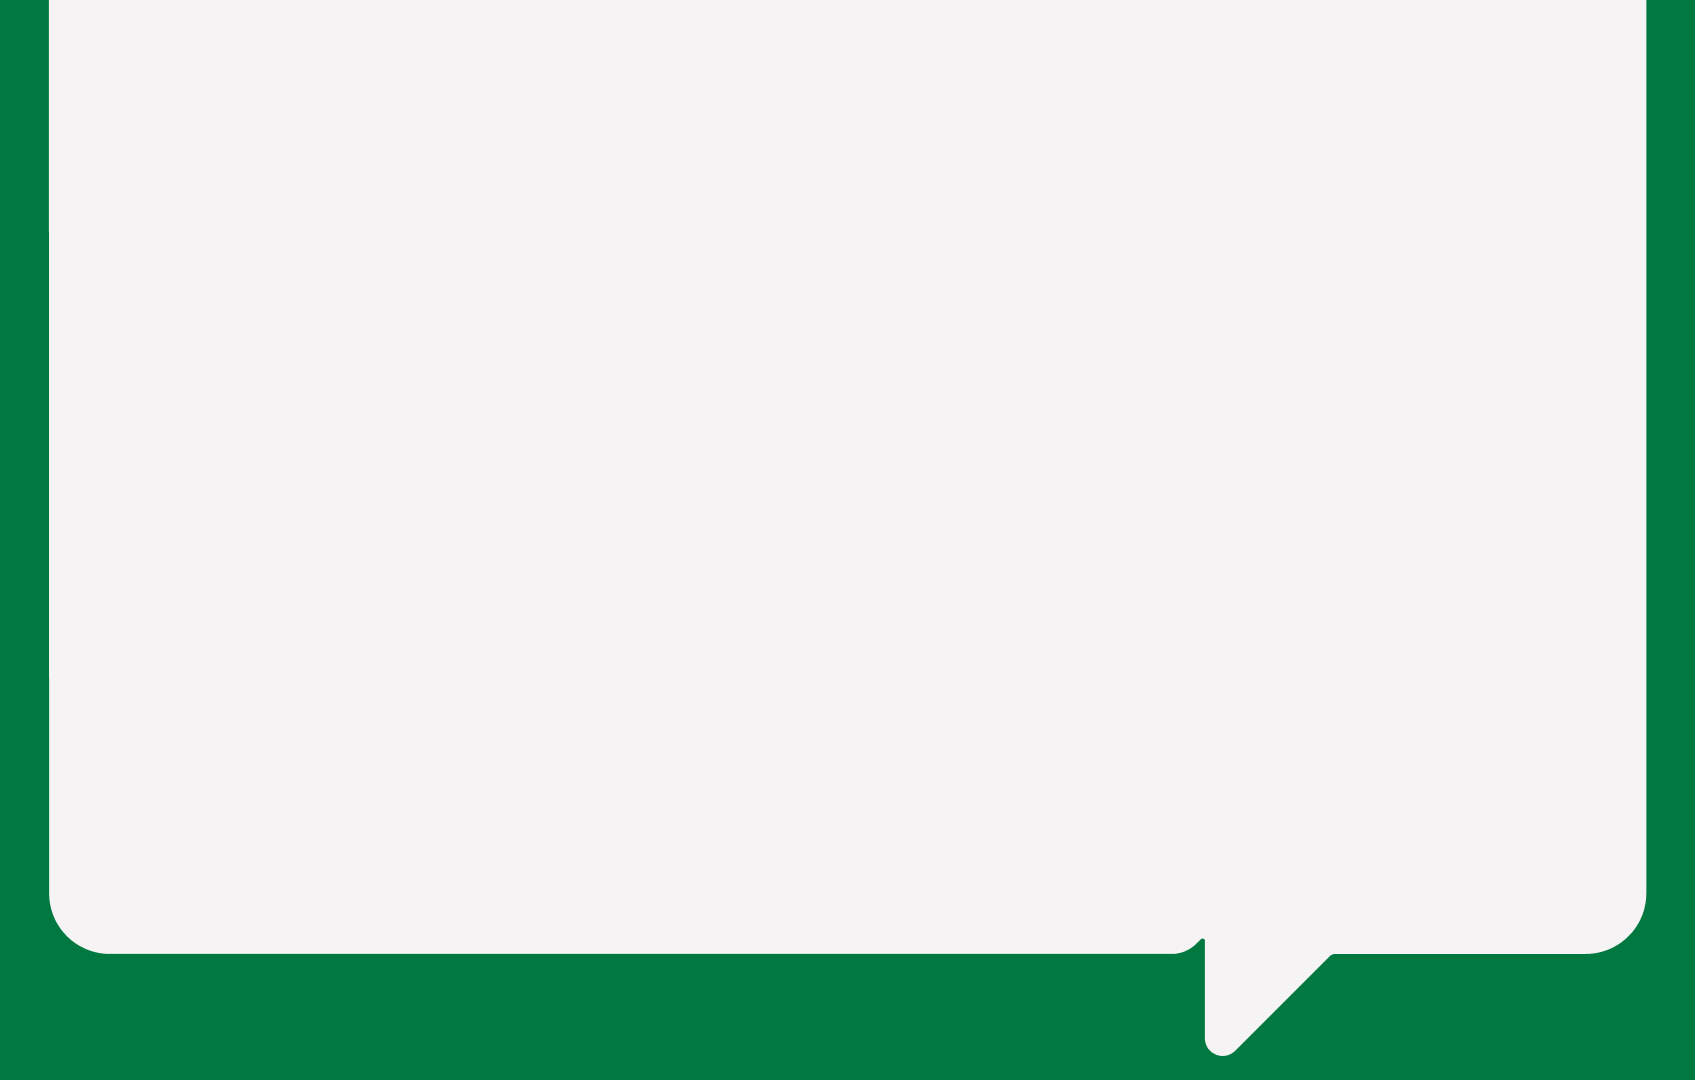
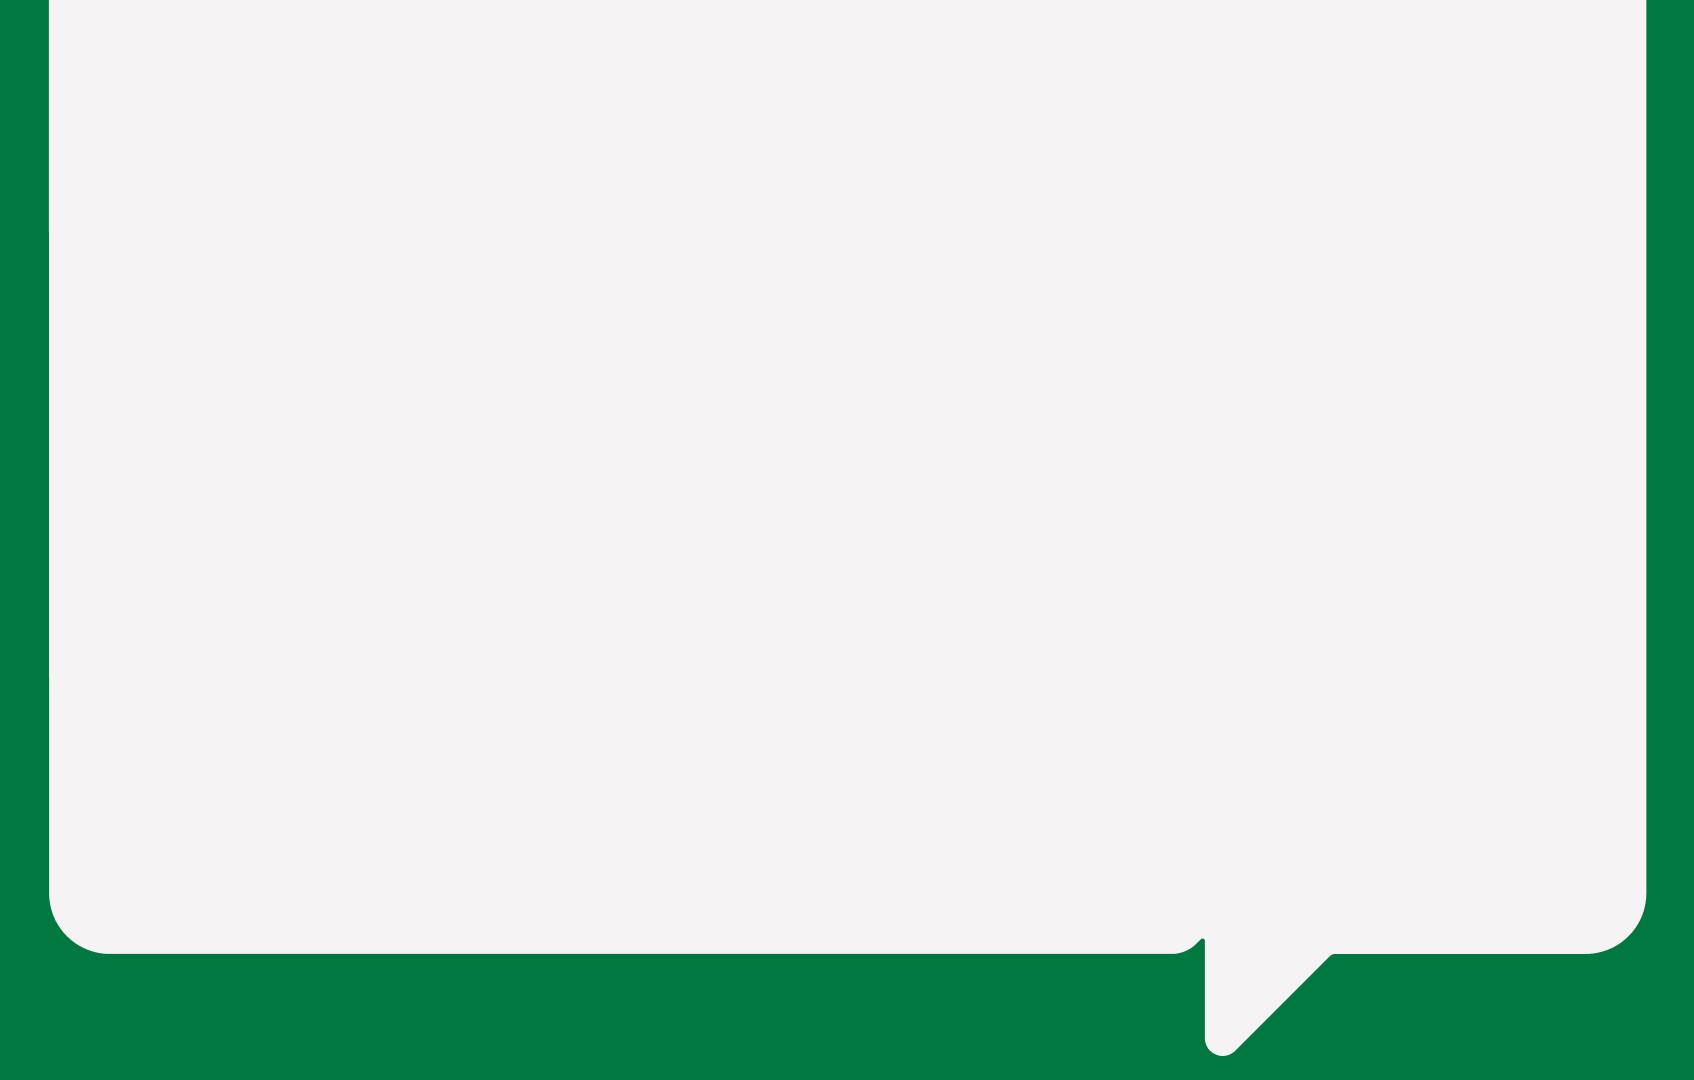
no message

Changed region(s): [[0.9516, 0.0, 1.0, 1.0], [0.706, 0.9472, 0.7367, 0.9778]]

diff --git a/src/pages/settings/SettingUser.jsx b/src/pages/settings/SettingUser.jsx
@@ -1,8 +1,10 @@
 import React, { useState } from "react";
 import MainLayout from "../../layouts/MainLayout";
-import Logo from "../../components/logo/Logo";
 import Filter from "../../components/filter/Filter";
-
+import TableComponent from "../../components/table/TableComponent";
+import Button from "../../components/button/Button";
+import { Dropdown } from "antd";
+import BadgeStatus from "../../components/badge/BadgeStatus";
 export default function Dashboard() {
   const [loading, setLoading] = useState(false);
 
@@ -48,6 +50,116 @@ export default function Dashboard() {
     console.log("Filters cleared");
   };
 
+  // Data in Table 
+  const header = [
+    {
+      title: "Years",
+      width: 100,
+      dataIndex: "year",
+      align: "left",
+    },
+    {
+      title: "Work Plan (THB)",
+      width: 100,
+      dataIndex: "workPlan",
+      align: "left",
+    },
+    {
+      title: "Last modified",
+      width: 100,
+      dataIndex: "lastModified",
+      align: "left",
+    },
+    {
+      title: "Status",
+      width: 100,
+      dataIndex: "status",
+      align: "left",
+    },
+    {
+      title: "Action",
+      width: 100,
+      dataIndex: "action",
+      align: "left",
+    },
+  ];
+
+  const items = [
+    {
+      key: "1",
+      label: (
+        <a
+          // target="_blank"
+          rel="noopener noreferrer"
+          href="/sale-plan/work-plan/create"
+        >
+          create
+        </a>
+      ),
+    },
+    {
+      key: "2",
+      label: (
+        <a rel="noopener noreferrer" href="/sale-plan/work-plan/edit">
+          edit
+        </a>
+      ),
+    },
+  ];
+
+  const dataSource = [
+    {
+      key: 1,
+      workPlan: 0,
+      year: "2024",
+      action: (
+        <Dropdown
+          menu={{
+            items,
+          }}
+          placement="bottom"
+        >
+          <a onClick={(e) => e.preventDefault()}>
+            <img
+              src="/img/icons/action.png"
+              alt="button icon"
+              className="inline-block w-5 h-5 mr-2"
+            />
+          </a>
+        </Dropdown>
+      ),
+      status: (
+        <BadgeStatus text="Complete" bgColor="#00783F" textColor="#FFFFFF" />
+      ),
+      lastModified: "2024-01-01 11:11",
+    },
+    {
+      key: 2,
+      workPlan: 1000000,
+      year: "2023",
+      action: (
+        <Dropdown
+          menu={{
+            items,
+          }}
+          placement="bottom"
+        >
+          <a onClick={(e) => e.preventDefault()}>
+            <img
+              src="/img/icons/action.png"
+              alt="button icon"
+              className="inline-block w-5 h-5 mr-2"
+            />
+          </a>
+        </Dropdown>
+      ),
+      status: (
+        <BadgeStatus text="Complete" bgColor="#00783F" textColor="#FFFFFF" />
+      ),
+      lastModified: "2024-01-01 11:11",
+    },
+  ];
+
   return (
     <>
       <MainLayout
@@ -56,6 +168,7 @@ export default function Dashboard() {
         <div className="title-page">Manage Users</div>
 
         <Filter onSearch={handleSearch} onClear={handleClear} filters={filters} />
+        <TableComponent header={header} dataSource={dataSource} />
 
       </MainLayout>
 

diff --git a/src/components/button/Button.jsx b/src/components/button/Button.jsx
@@ -10,7 +10,7 @@ const DynamicButton = ({
   return (
     // Static max-width = fit-content when change USE Style
     <button
-      className={`cursor-pointer text-center font-light text-sm rounded-[5px] max-w-fit ${className}`}
+      className={`cursor-pointer text-center font-light text-sm rounded-[5px] ${className}`}
       onClick={onClick}
       disabled={disabled}
     >
